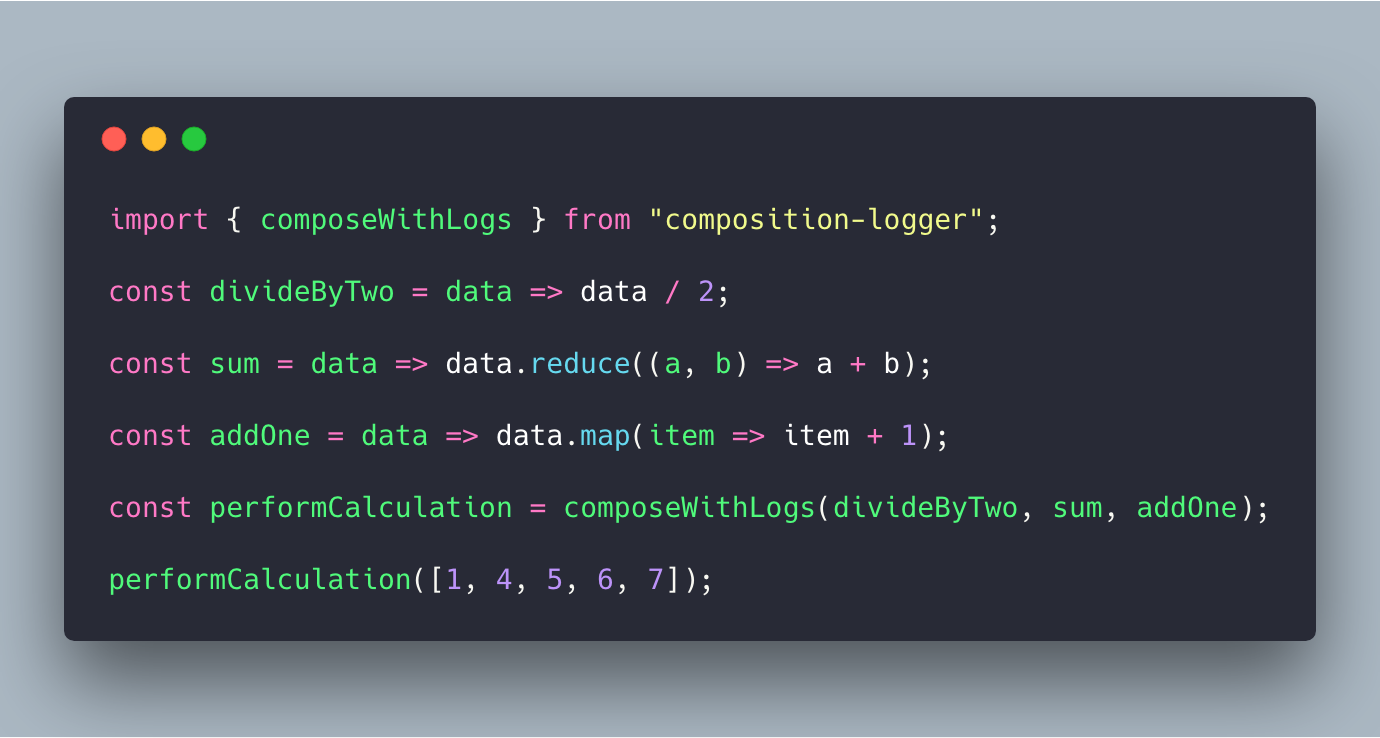
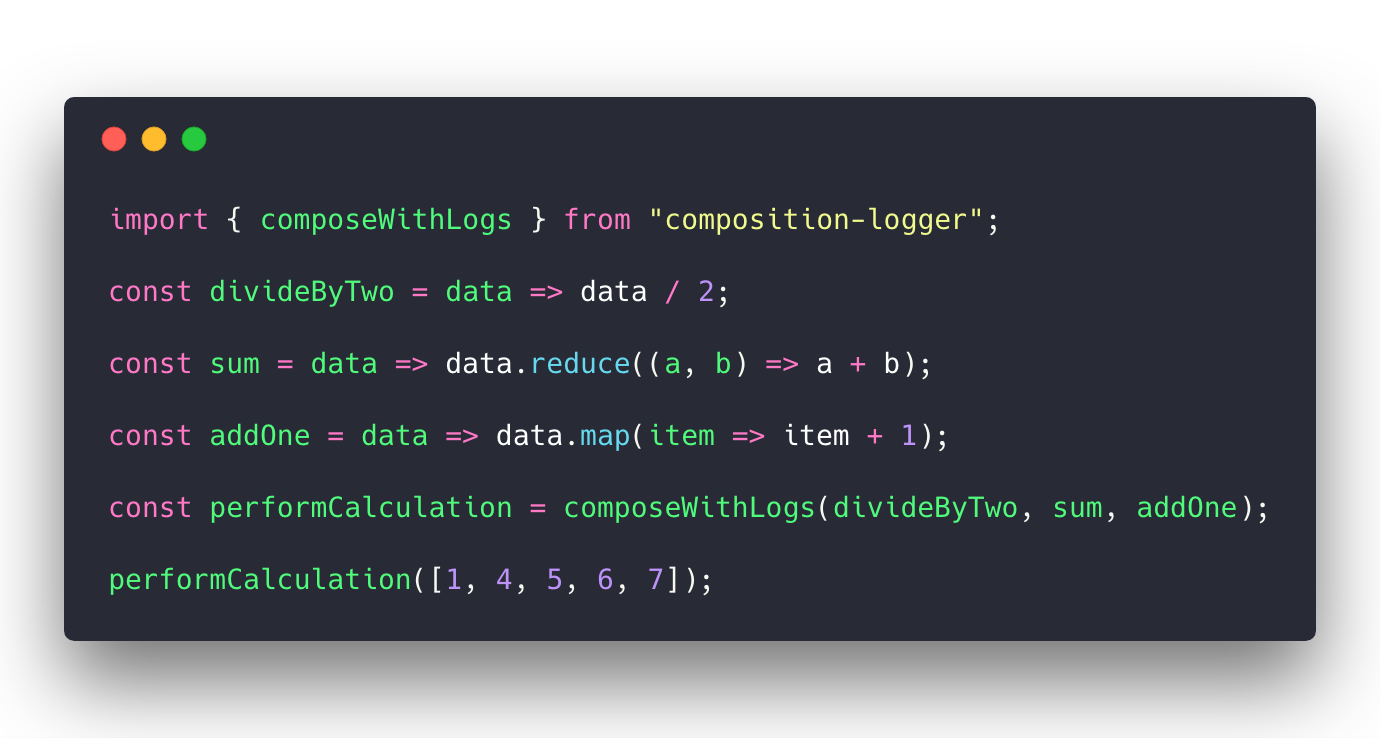
Testing readme layouts

diff --git a/README.md b/README.md
@@ -32,4 +32,7 @@ Composition-logger supports two ways of composing functions, which are [pipe](ht
 
 #### Compose
 
-![composition-logger-compose](media/carbon.png)
+<p float="left">
+  <img src="/media/carbon.png" width="100" />
+  <img src="/media/compositionOutput.png" width="100" />
+</p>
